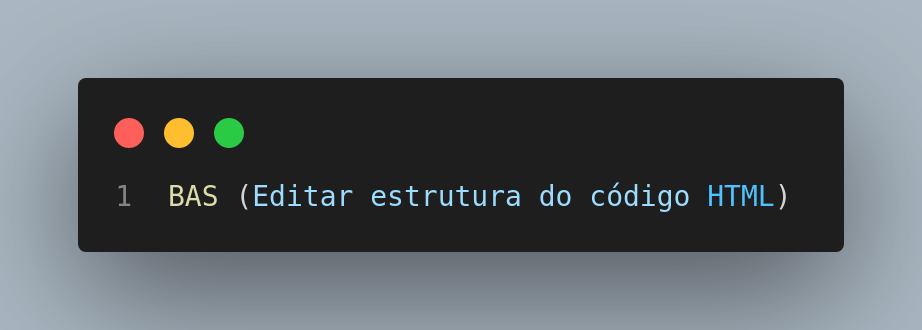
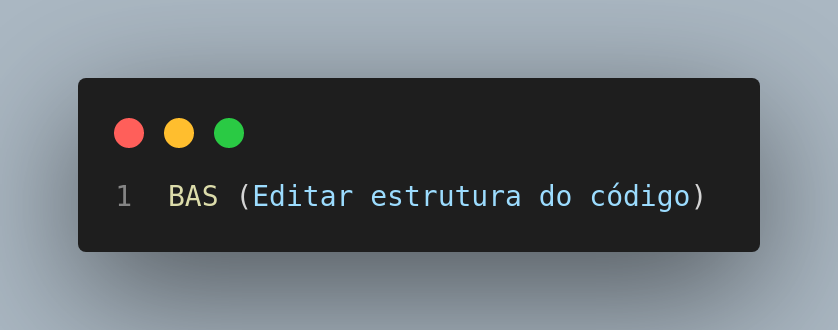
DOCS [Images padrãoDeCommits]: Editado imagens de busca do BAS, CHORE e CORF; Edição na descrição base de Tipos

diff --git a/padrãoDeCommits.md b/padrãoDeCommits.md
@@ -26,7 +26,7 @@ Esta área é usada exclusivamente quando o projeto em questão é desenvolvida 
 Lembre-se sempre de colocar a descrilção de todas as edilções que foram feitas
 
 # TIPOS
-### Vou te mostrar agora, todos os TIPOS relevantes por enquanto e para que cada um serve
+### Abaixo será mostrado todos os TIPOS relevantes por enquanto e para que cada um serve
 
 #### FIX
 <img alt="FIX" height="150px" src="src/images/padrão de commits/FIX.png"/>
